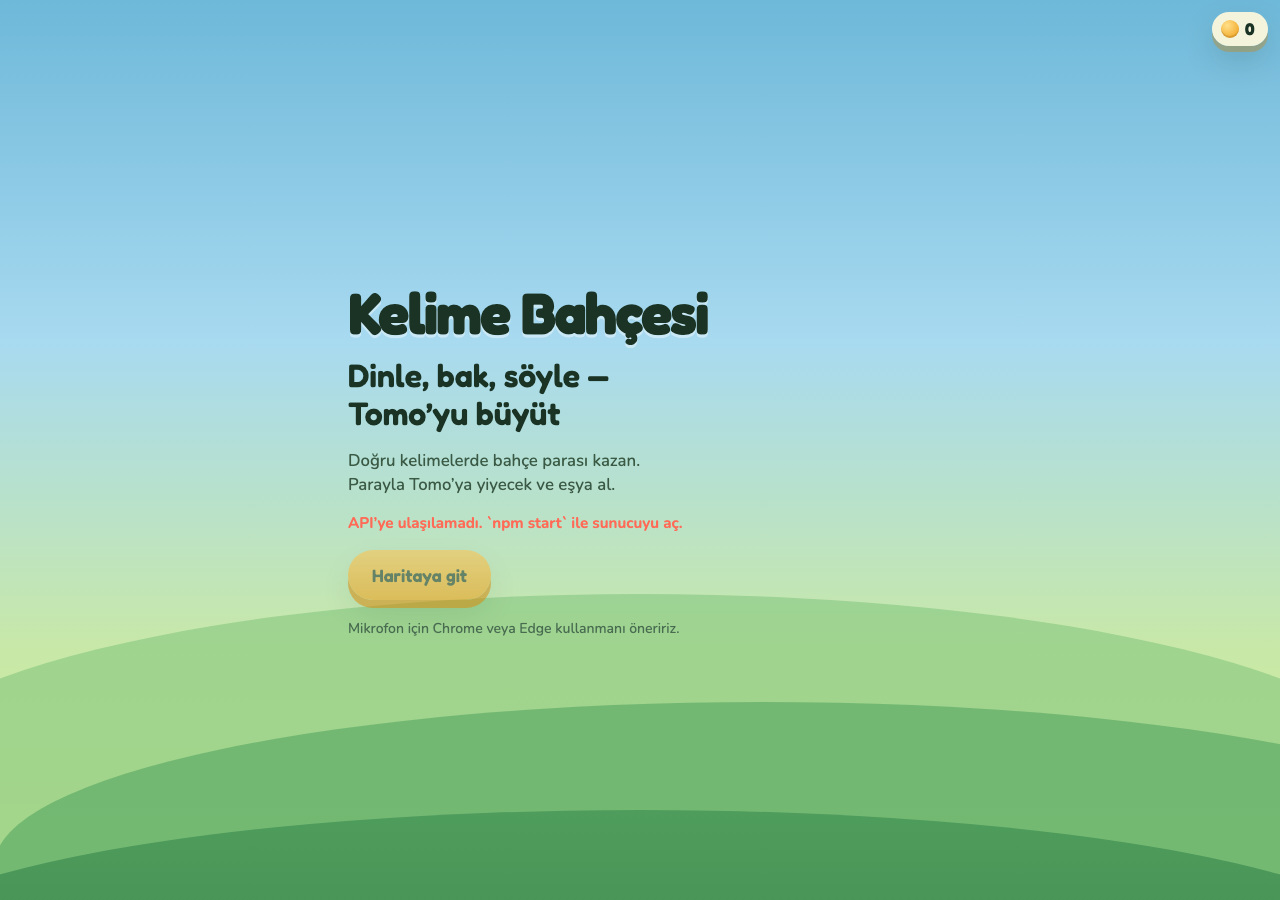
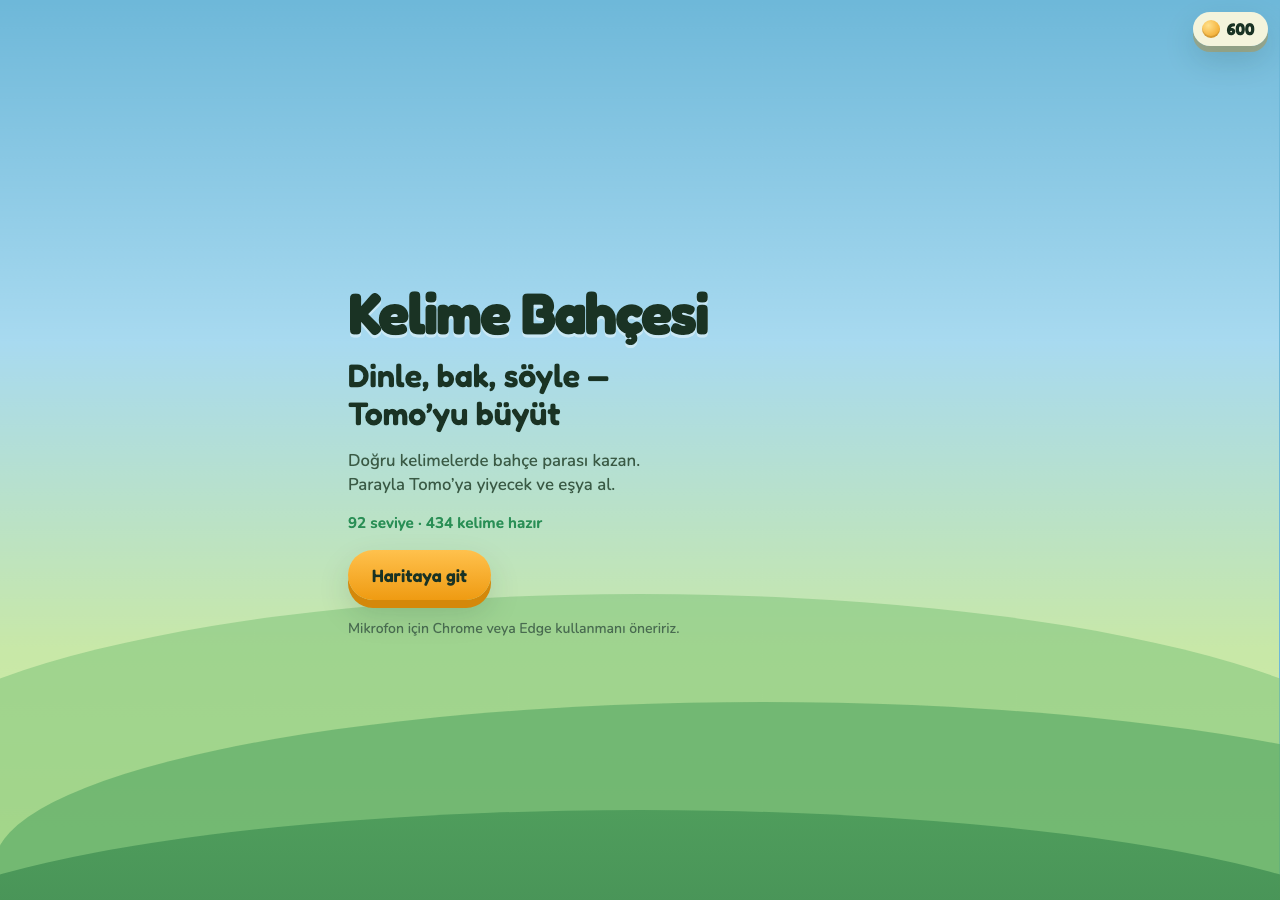
Açıklamayı kurulum ve ekranlarla genişlet.

Changed region(s): [[0.25, 0.56, 0.5312, 0.6844], [0.9062, 0.0, 0.9688, 0.0622]]

diff --git a/README.md b/README.md
@@ -1,33 +1,46 @@
-# Kelime Bahçesi v2
+# Kelime Bahçesi
 
-![Kelime Bahçesi](ekran/ana.png)
+Dinle, bak, söyle. Doğru kelimede bahçe parası birikir. Parayla Tomo’ya yiyecek, oyuncak, renk ve şapka alınır.
 
+![Karşılama](ekran/ana.png)
 
-Mikroservis mimarisi: gateway + words / media / shop.
+![Keşif haritası](ekran/harita.png)
 
-## Çalıştırma
+![Kelime](ekran/kelime.png)
+
+![Tomo](ekran/tomo.png)
+
+![Market](ekran/market.png)
+
+## Kurulum
 
 ```bash
 cd kids-english-words
-npm start
+node server/gateway.mjs
 ```
 
-Aç: [http://localhost:5174](http://localhost:5174)
+Aç: http://127.0.0.1:5174
 
-## Servisler
+`PORT` portu değiştirir. `npm start` aynı kapıyı açar.
 
-| Endpoint | Servis | Görev |
-|----------|--------|--------|
-| `GET /api/levels` | words | Cambridge YLE seviyeleri (disk önbellek) |
-| `GET /api/media?word=cat` | media | Wikipedia görseli + TR |
-| `GET /api/shop` | shop | Market kataloğu + ödül sabitleri |
-| `GET /api/health` | gateway | Sağlık kontrolü |
+İlk açılışta kelime listesi disk önbelleğinden gelir. Önbellek yoksa servis listeyi ağdan kurmayı dener; olmazsa gömülü yedek seviyeler kullanılır.
 
-İstemci ince ES modülleri: `public/js/` (api, state, speech, screens).
+## Nasıl kuruldu
 
-## iOS (Swift)
+Tek **Node** süreci üç işi bir kapıdan verir:
 
-Aynı özellikler SwiftUI ile: [`KelimeBahcesi-iOS/`](KelimeBahcesi-iOS/README.md)
+| Yol | İş |
+| --- | --- |
+| `GET /api/levels` | Cambridge YLE seviyeleri. Disk önbelleği `cache/levels.json`. |
+| `GET /api/media?word=cat` | Kelime görseli ve Türkçe karşılık. Görsel Wikipedia’dan, çeviri gömülü sözlükten ya da ağdan. |
+| `GET /api/shop` | Market kataloğu ve ödül sabitleri. |
+| `GET /api/health` | Kapı ayakta mı. |
+
+İstemci `public/` altında çerçevesiz ES modülleri: `api.js`, `state.js`, `speech.js`, `screens/`. Konuşma tanıma tarayıcının Web Speech API’si ile çalışır; Chrome veya Edge daha sorunsuzdur. İlerleme bu tarayıcının kendi kaydında durur.
+
+## iOS
+
+Aynı akışın SwiftUI kopyası `KelimeBahcesi-iOS/` içindedir.
 
 ```bash
 open KelimeBahcesi-iOS/KelimeBahcesi.xcodeproj
